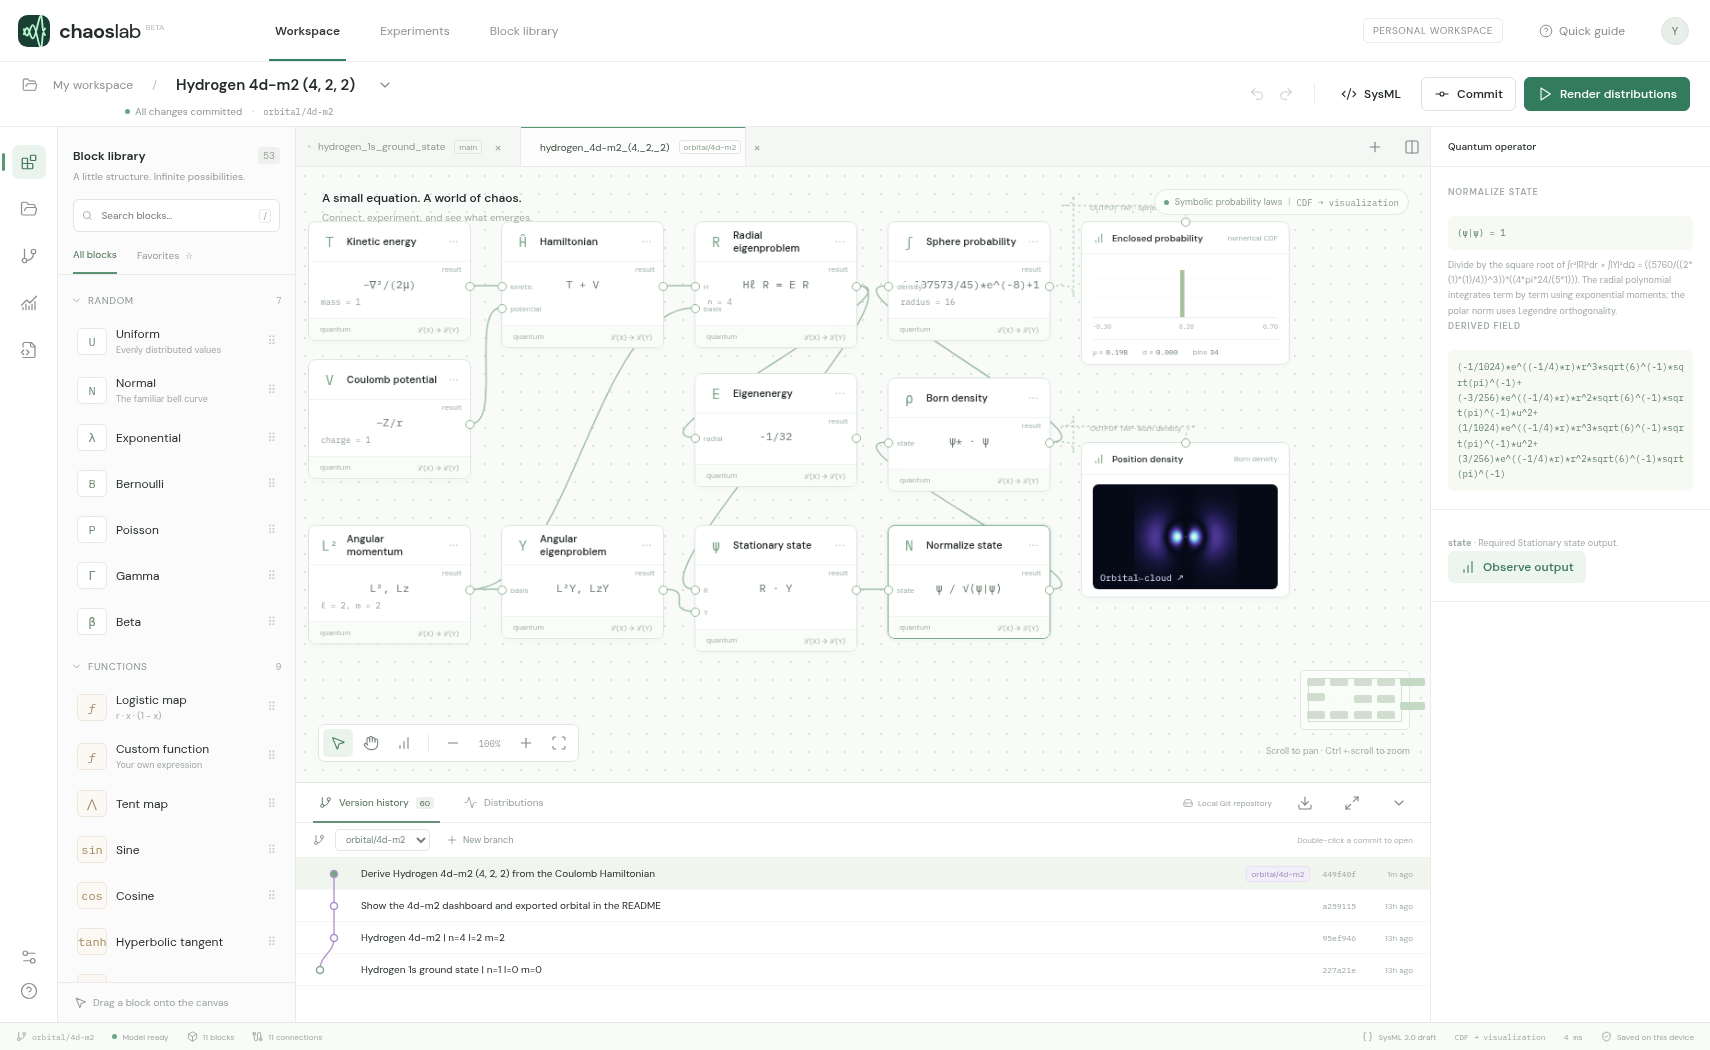
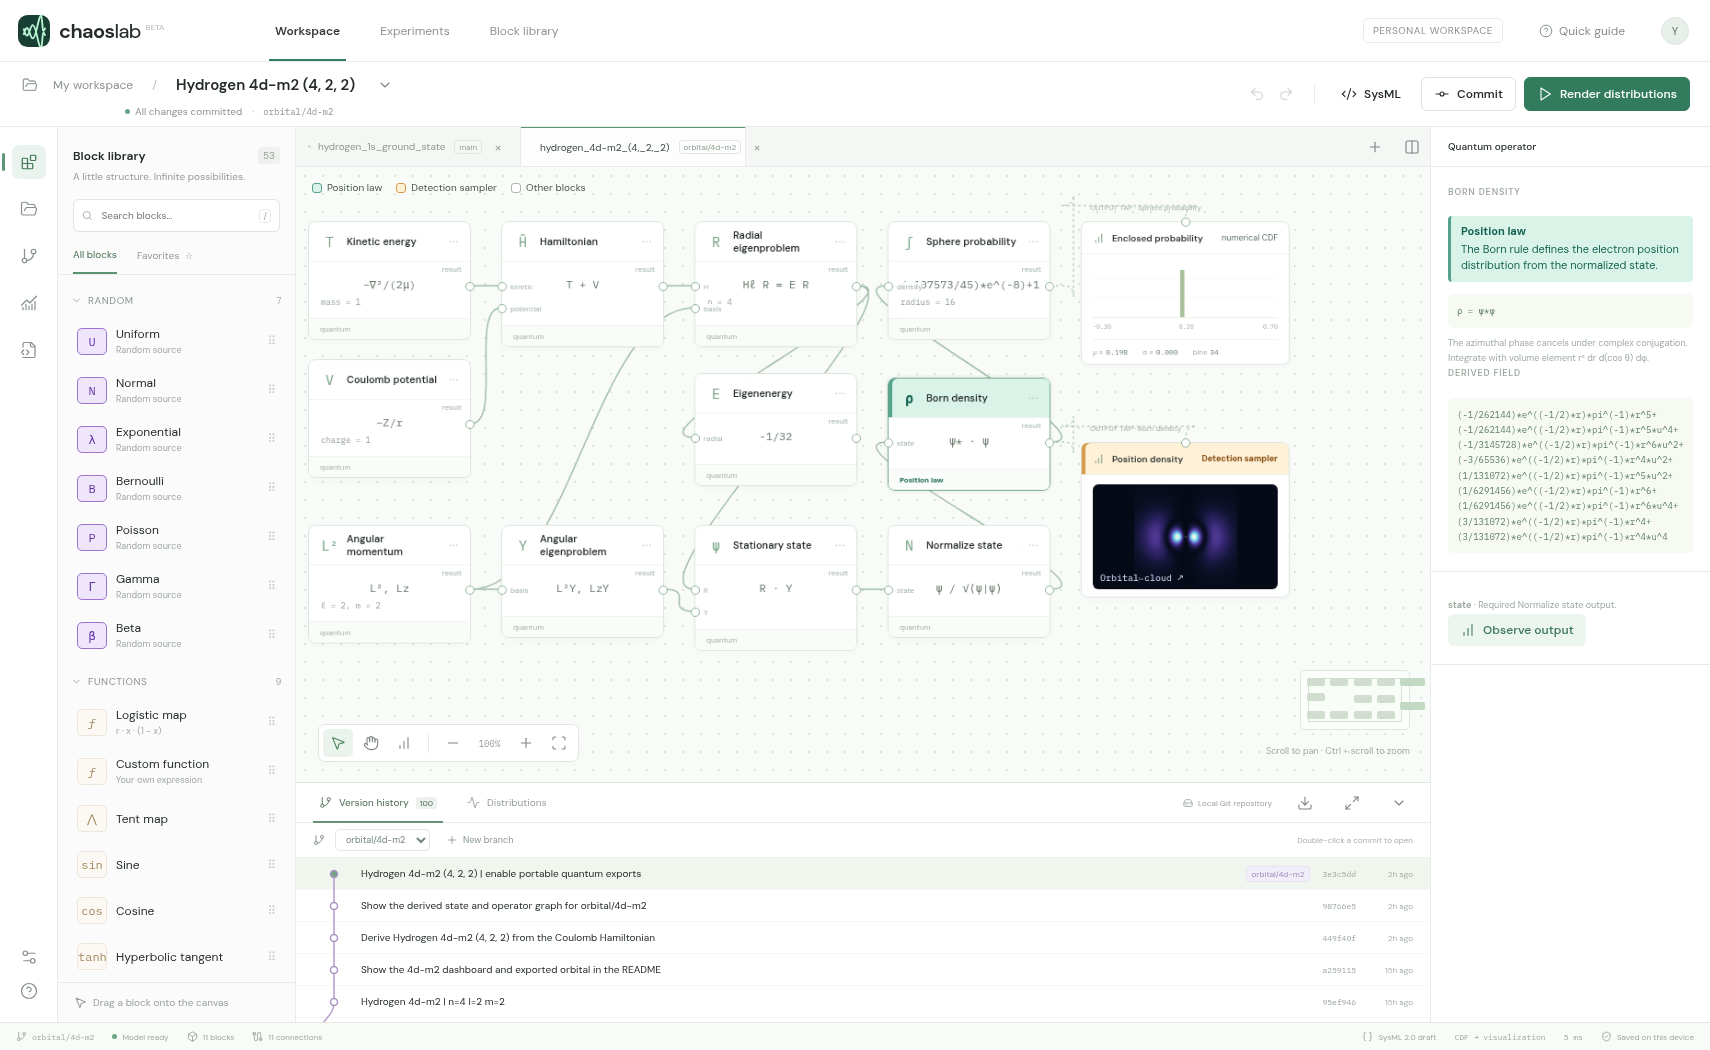
Hydrogen 4d-m2 (4, 2, 2) | identify the position law and detection sampler

diff --git a/studio.py b/studio.py
@@ -10,7 +10,7 @@ import tempfile
 import webbrowser
 
 ROOT = Path(__file__).resolve().parent
-STUDIO_REV = "1cc30c5632f1fe1f79a11ab6730f82c36a6c01e4"
+STUDIO_REV = "8657d6ecd3aa33a5a28f43219d5d6bfb8aa3edcc"
 STUDIO_REPO = "https://github.com/wa200508/chaos_lab.git"
 
 

diff --git a/README.md b/README.md
@@ -6,6 +6,8 @@ Open **Version history** in Chaos Lab to explore the 20 hydrogen designs in this
 
 The connected Hamiltonian and eigenstate solvers give $E=-1/32$ Hartree for this state.
 
+On the canvas, teal **Position law** marks where the Born rule defines the distribution of electron positions. Amber **Detection sampler** marks the tap that draws positions for the projected cloud. The central slice evaluates the density directly.
+
 ![Chaos Lab dashboard with the 4d model, m = 2, open in version history](dashboard.png)
 
 Radial nodes: 1. Polar nodes: 0. Plot half-width: 32 Bohr radii.
